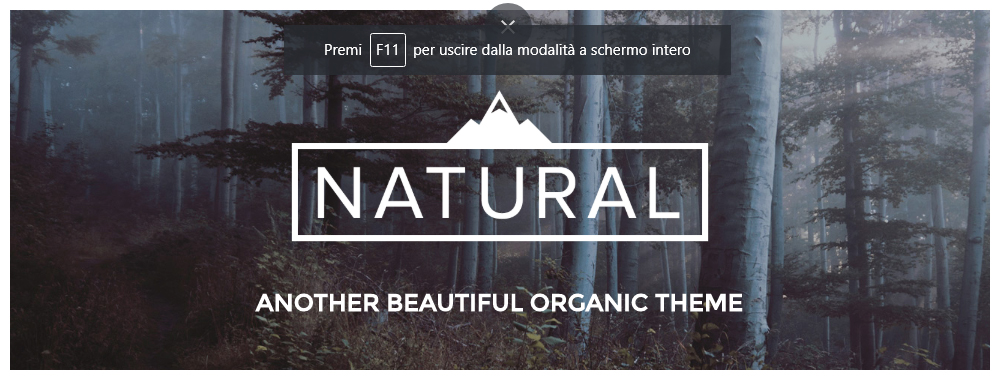
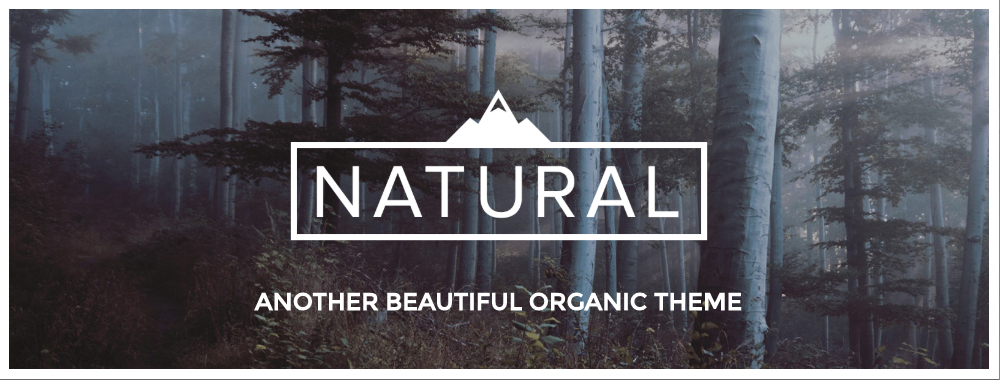
inserimento main + side box

diff --git a/style.css b/style.css
@@ -6,9 +6,8 @@
 
 header {
     width: 1000px;
-    height: 100%;
     margin: auto;
-    padding-top: 50px;
+    padding-top: 10px;
 }
 
 body {
@@ -33,4 +32,26 @@ body {
     text-decoration: none;
     color: white;
     margin:0 15px 0 42px;
+}
+
+.page {
+    width: 1000px;
+    margin: auto;
+    padding-top: 30px;
+}
+
+aside {
+    width: 15%;
+    height: 400px;
+    background-color: pink;
+    float: left;
+}
+
+main {
+    width: 60%;
+    height: 500px;
+    background-color: green;
+    float: left;
+    margin-left: 5%;
+    margin-right: 5%;
 }

diff --git a/index.html b/index.html
@@ -34,6 +34,11 @@
                 </li>
             </ul>
         </div>
+        <div class="page">
+            <aside></aside>
+            <main></main>
+            <aside></aside>
+        </div>
 
     </body>
 </html>
